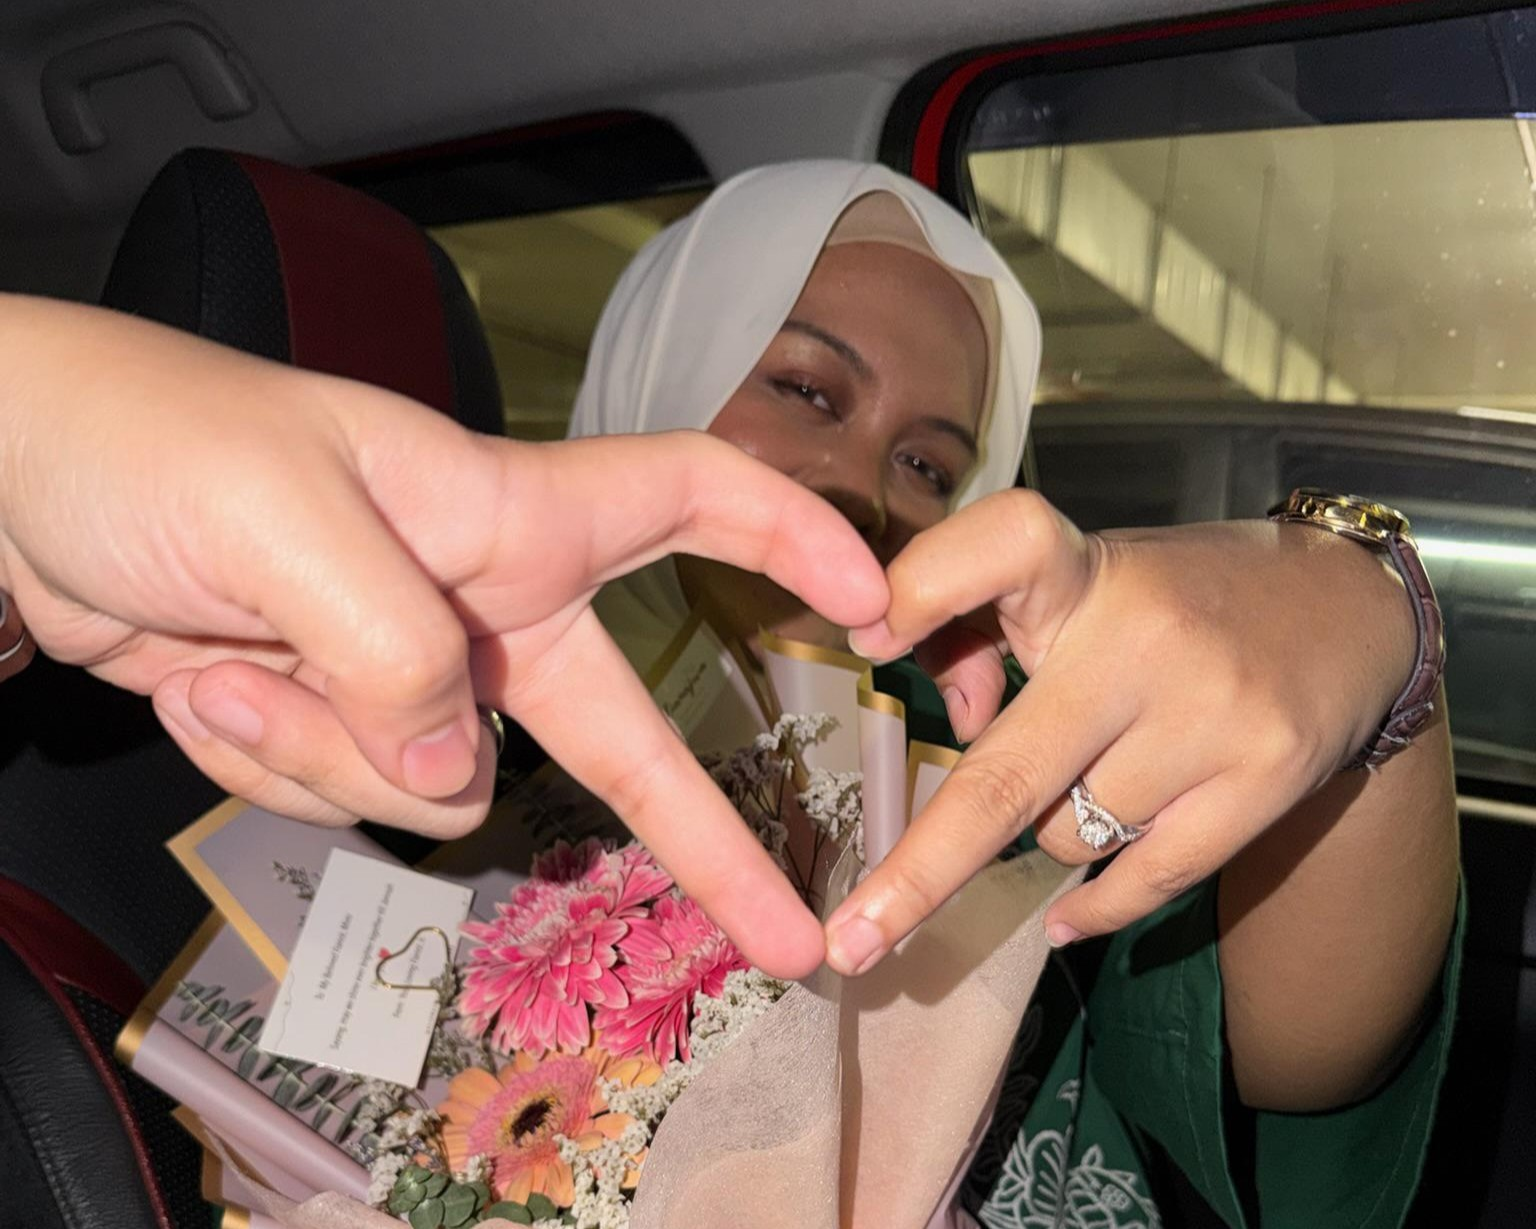
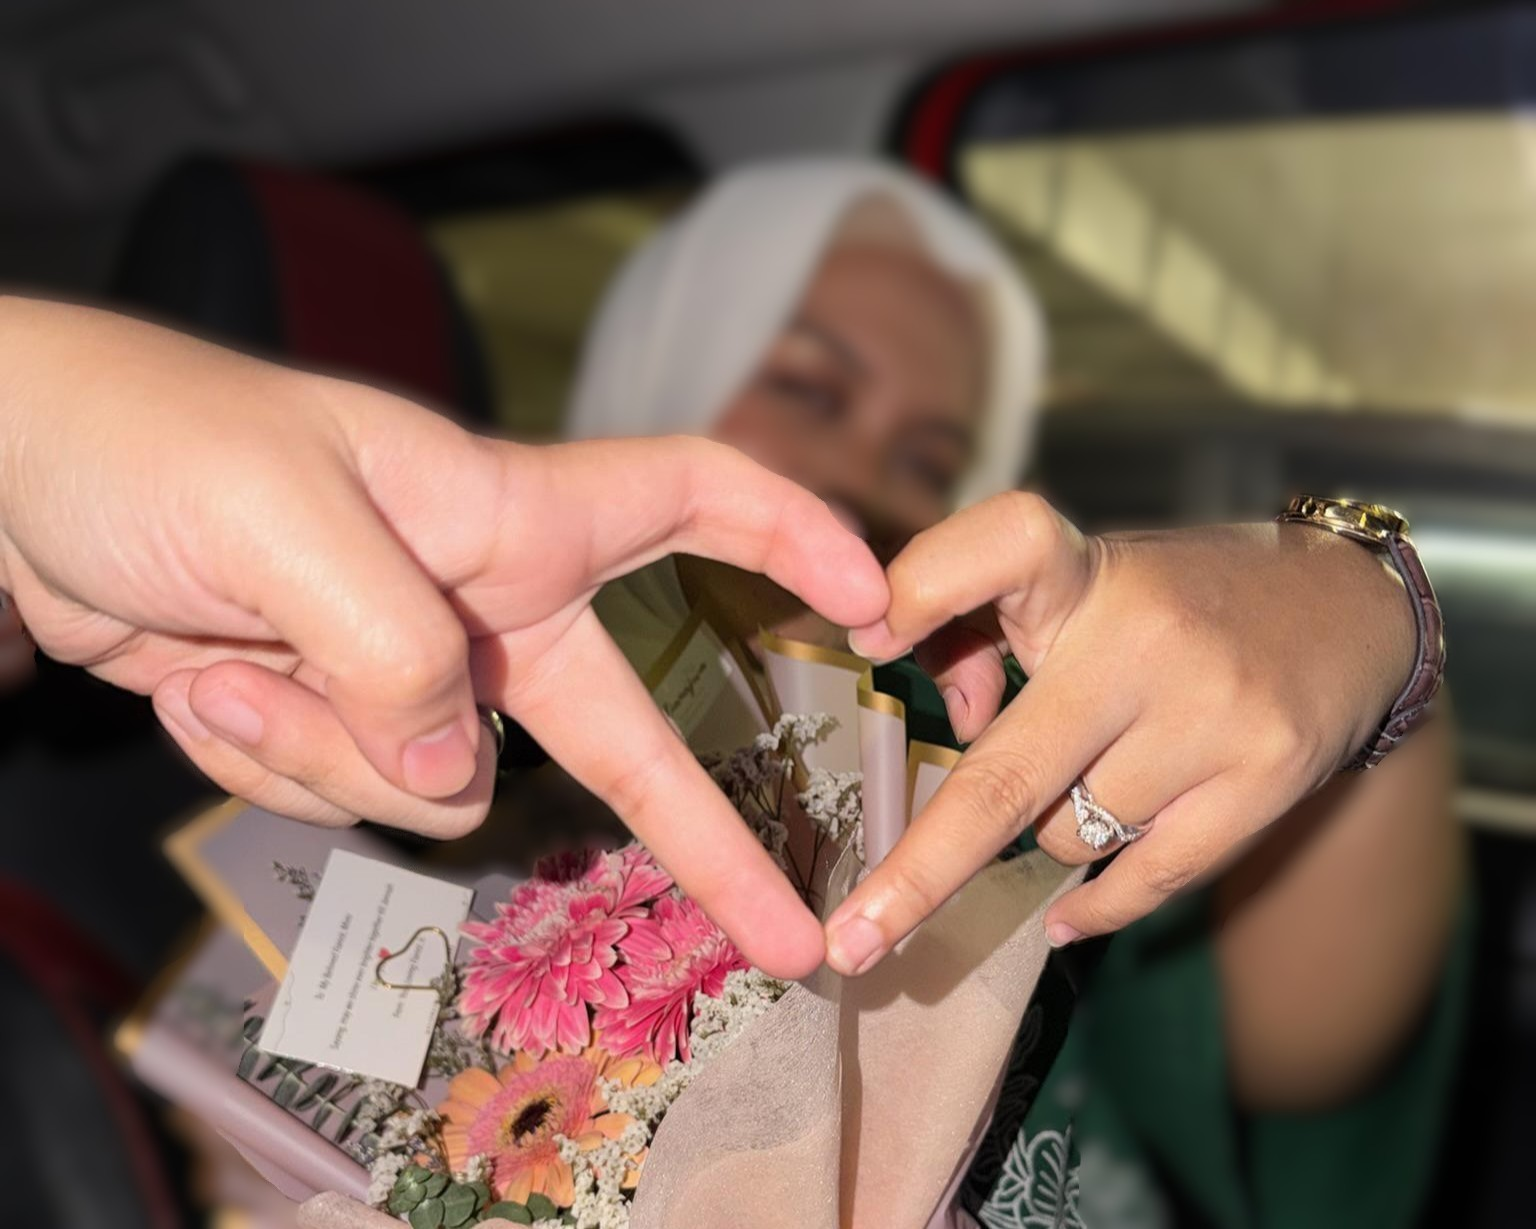
Update vintage photo print and gallery arrangement

diff --git a/index.html b/index.html
@@ -622,47 +622,6 @@
             <img src="assets/gallery_1.jpeg" alt="Wedding Moments 1" class="w-full h-full object-cover">
           </div>
 
-          <!-- <div class="carousel-item snap-center shrink-0 w-[60vw] sm:w-[50vw] lg:w-[30vw] aspect-[4/3] rounded-2xl overflow-hidden shadow-md border border-stone-200 transition-all duration-500 ease-out cursor-pointer">
-            <img src="assets/gallery_2.jpeg" alt="Wedding Moments 2" class="w-full h-full object-cover">
-          </div> -->
-
-          <!-- <div class="carousel-item snap-center shrink-0 w-[60vw] sm:w-[50vw] lg:w-[30vw] aspect-[3/4] rounded-2xl overflow-hidden shadow-md border border-stone-200 transition-all duration-500 ease-out cursor-pointer">
-            <img src="assets/gallery_3.jpeg" alt="Wedding Moments 3" class="w-full h-full object-cover">
-          </div>
-
-          <div class="carousel-item snap-center shrink-0 w-[60vw] sm:w-[50vw] lg:w-[30vw] aspect-[3/4] rounded-2xl overflow-hidden shadow-md border border-stone-200 transition-all duration-500 ease-out cursor-pointer">
-            <img src="assets/gallery_4.jpeg" alt="Wedding Moments 4" class="w-full h-full object-cover">
-          </div> -->
-
-          <div class="carousel-item snap-center shrink-0 w-[60vw] sm:w-[50vw] lg:w-[30vw] aspect-[4/3] rounded-2xl overflow-hidden shadow-md border border-stone-200 transition-all duration-500 ease-out cursor-pointer">
-            <img src="assets/gallery_5.jpeg" alt="Wedding Moments 5" class="w-full h-full object-cover">
-          </div>
-
-          <div class="carousel-item snap-center shrink-0 w-[60vw] sm:w-[50vw] lg:w-[30vw] aspect-[4/3] rounded-2xl overflow-hidden shadow-md border border-stone-200 transition-all duration-500 ease-out cursor-pointer">
-            <img src="assets/gallery_6.jpeg" alt="Wedding Moments 6" class="w-full h-full object-cover">
-          </div>
-
-          <div class="carousel-item snap-center shrink-0 w-[60vw] sm:w-[50vw] lg:w-[30vw] aspect-[3/4] rounded-2xl overflow-hidden shadow-md border border-stone-200 transition-all duration-500 ease-out cursor-pointer">
-            <img src="assets/gallery_7.jpeg" alt="Wedding Moments 7" class="w-full h-full object-cover">
-          </div>
-
-          <div class="carousel-item snap-center shrink-0 w-[60vw] sm:w-[50vw] lg:w-[30vw] aspect-[3/4] rounded-2xl overflow-hidden shadow-md border border-stone-200 transition-all duration-500 ease-out cursor-pointer">
-            <img src="assets/gallery_8.jpeg" alt="Wedding Moments 8" class="w-full h-full object-cover">
-          </div>
-
-          <!-- <div class="carousel-item snap-center shrink-0 w-[60vw] sm:w-[50vw] lg:w-[30vw] aspect-[3/4] rounded-2xl overflow-hidden shadow-md border border-stone-200 transition-all duration-500 ease-out cursor-pointer">
-            <img src="assets/gallery_9.jpeg" alt="Wedding Moments 9" class="w-full h-full object-cover">
-          </div> -->
-
-          <div class="carousel-item snap-center shrink-0 w-[60vw] sm:w-[50vw] lg:w-[30vw] aspect-[3/4] rounded-2xl overflow-hidden shadow-md border border-stone-200 transition-all duration-500 ease-out cursor-pointer">
-            <img src="assets/gallery_10.jpeg" alt="Wedding Moments 10" class="w-full h-full object-cover">
-          </div>
-
-          <!-- <div class="carousel-item snap-center shrink-0 w-[60vw] sm:w-[50vw] lg:w-[30vw] aspect-[3/4] rounded-2xl overflow-hidden shadow-md border border-stone-200 transition-all duration-500 ease-out cursor-pointer">
-            <video src="assets/vid_1.mp4" autoplay loop muted playsinline alt="Wedding Moments 3" class="w-full h-full object-cover">
-            </video>
-          </div> -->
-
           <div class="carousel-item snap-center shrink-0 w-[60vw] sm:w-[50vw] lg:w-[30vw] aspect-[4/3] rounded-2xl overflow-hidden shadow-md border border-stone-200 transition-all duration-500 ease-out cursor-pointer">
             <img src="assets/gallery_11.jpeg" alt="Wedding Moments 11" class="w-full h-full object-cover">
           </div>
@@ -679,6 +638,10 @@
             <img src="assets/gallery_14.jpeg" alt="Wedding Moments 14" class="w-full h-full object-cover">
           </div>
 
+          <div class="carousel-item snap-center shrink-0 w-[60vw] sm:w-[50vw] lg:w-[30vw] aspect-[3/4] rounded-2xl overflow-hidden shadow-md border border-stone-200 transition-all duration-500 ease-out cursor-pointer">
+            <img src="assets/gallery_19.jpeg" alt="Wedding Moments 19" class="w-full h-full object-cover">
+          </div>
+
           <div class="carousel-item snap-center shrink-0 w-[60vw] sm:w-[50vw] lg:w-[30vw] aspect-[4/3] rounded-2xl overflow-hidden shadow-md border border-stone-200 transition-all duration-500 ease-out cursor-pointer">
             <img src="assets/gallery_15.jpeg" alt="Wedding Moments 15" class="w-full h-full object-cover">
           </div>
@@ -688,16 +651,53 @@
           </div>
 
           <div class="carousel-item snap-center shrink-0 w-[60vw] sm:w-[50vw] lg:w-[30vw] aspect-[3/4] rounded-2xl overflow-hidden shadow-md border border-stone-200 transition-all duration-500 ease-out cursor-pointer">
-            <img src="assets/gallery_17.jpeg" alt="Wedding Moments 17" class="w-full h-full object-cover">
+            <img src="assets/gallery_7.jpeg" alt="Wedding Moments 7" class="w-full h-full object-cover">
+          </div>
+
+          <div class="carousel-item snap-center shrink-0 w-[60vw] sm:w-[50vw] lg:w-[30vw] aspect-[3/4] rounded-2xl overflow-hidden shadow-md border border-stone-200 transition-all duration-500 ease-out cursor-pointer">
+            <img src="assets/gallery_8.jpeg" alt="Wedding Moments 8" class="w-full h-full object-cover">
+          </div>
+
+          <div class="carousel-item snap-center shrink-0 w-[60vw] sm:w-[50vw] lg:w-[30vw] aspect-[3/4] rounded-2xl overflow-hidden shadow-md border border-stone-200 transition-all duration-500 ease-out cursor-pointer">
+            <img src="assets/gallery_10.jpeg" alt="Wedding Moments 10" class="w-full h-full object-cover">
+          </div>
+
+          <div class="carousel-item snap-center shrink-0 w-[60vw] sm:w-[50vw] lg:w-[30vw] aspect-[4/3] rounded-2xl overflow-hidden shadow-md border border-stone-200 transition-all duration-500 ease-out cursor-pointer">
+            <img src="assets/gallery_5.jpeg" alt="Wedding Moments 5" class="w-full h-full object-cover">
+          </div>
+
+          <div class="carousel-item snap-center shrink-0 w-[60vw] sm:w-[50vw] lg:w-[30vw] aspect-[4/3] rounded-2xl overflow-hidden shadow-md border border-stone-200 transition-all duration-500 ease-out cursor-pointer">
+            <img src="assets/gallery_6.jpeg" alt="Wedding Moments 6" class="w-full h-full object-cover">
           </div>
 
           <div class="carousel-item snap-center shrink-0 w-[60vw] sm:w-[50vw] lg:w-[30vw] aspect-[4/3] rounded-2xl overflow-hidden shadow-md border border-stone-200 transition-all duration-500 ease-out cursor-pointer">
             <img src="assets/gallery_18.jpeg" alt="Wedding Moments 18" class="w-full h-full object-cover">
           </div>
 
-          <div class="carousel-item snap-center shrink-0 w-[60vw] sm:w-[50vw] lg:w-[30vw] aspect-[3/4] rounded-2xl overflow-hidden shadow-md border border-stone-200 transition-all duration-500 ease-out cursor-pointer">
-            <img src="assets/gallery_19.jpeg" alt="Wedding Moments 19" class="w-full h-full object-cover">
+          <!-- <div class="carousel-item snap-center shrink-0 w-[60vw] sm:w-[50vw] lg:w-[30vw] aspect-[4/3] rounded-2xl overflow-hidden shadow-md border border-stone-200 transition-all duration-500 ease-out cursor-pointer">
+            <img src="assets/gallery_2.jpeg" alt="Wedding Moments 2" class="w-full h-full object-cover">
+          </div> -->
+
+          <!-- <div class="carousel-item snap-center shrink-0 w-[60vw] sm:w-[50vw] lg:w-[30vw] aspect-[3/4] rounded-2xl overflow-hidden shadow-md border border-stone-200 transition-all duration-500 ease-out cursor-pointer">
+            <img src="assets/gallery_3.jpeg" alt="Wedding Moments 3" class="w-full h-full object-cover">
           </div>
+
+          <div class="carousel-item snap-center shrink-0 w-[60vw] sm:w-[50vw] lg:w-[30vw] aspect-[3/4] rounded-2xl overflow-hidden shadow-md border border-stone-200 transition-all duration-500 ease-out cursor-pointer">
+            <img src="assets/gallery_4.jpeg" alt="Wedding Moments 4" class="w-full h-full object-cover">
+          </div> -->
+
+          <!-- <div class="carousel-item snap-center shrink-0 w-[60vw] sm:w-[50vw] lg:w-[30vw] aspect-[3/4] rounded-2xl overflow-hidden shadow-md border border-stone-200 transition-all duration-500 ease-out cursor-pointer">
+            <img src="assets/gallery_9.jpeg" alt="Wedding Moments 9" class="w-full h-full object-cover">
+          </div> -->
+
+          <!-- <div class="carousel-item snap-center shrink-0 w-[60vw] sm:w-[50vw] lg:w-[30vw] aspect-[3/4] rounded-2xl overflow-hidden shadow-md border border-stone-200 transition-all duration-500 ease-out cursor-pointer">
+            <video src="assets/vid_1.mp4" autoplay loop muted playsinline alt="Wedding Moments 3" class="w-full h-full object-cover">
+            </video>
+          </div> -->
+
+          <!-- <div class="carousel-item snap-center shrink-0 w-[60vw] sm:w-[50vw] lg:w-[30vw] aspect-[3/4] rounded-2xl overflow-hidden shadow-md border border-stone-200 transition-all duration-500 ease-out cursor-pointer">
+            <img src="assets/gallery_17.jpeg" alt="Wedding Moments 17" class="w-full h-full object-cover">
+          </div> -->
         </div>
       </div>
     </section>
@@ -848,7 +848,7 @@
         fatherBride: "( Bapa Pengantin Perempuan )",
         motherBride: "( Ibu Pengantin Perempuan )",
         invitationHonorGroom: "menjemput serta mempersilakan<br><span class=\"font-sans font-medium text-[11px] sm:text-xs md:text-sm tracking-wider\">YBhg. Dato' / Datin / Tuan / Puan / Encik / Cik</span><br>ke majlis perkahwinan putera kami<br>bersama pasangan hidupnya",
-        invitationHonorBride: "menjemput serta mempersilakan<br><span class=\"font-sans font-medium text-[11px] sm:text-xs md:text-sm tracking-wider\">YBhg. Dato' / Datin / Tuan / Puan / Encik / Cik</span><br>ke majlis perkahwinan puteri kami<br>bersama pasangan hidupnya",
+        invitationHonorBride: "menjemput serta mempersilakan<br><span class=\"font-sans font-medium text-[11px] sm:text-xs md:text-sm tracking-wider\">YBhg. Dato' / Datin / Tuan / Puan / Encik / Cik</span><br>ke majlis perkahwinan puteri kami<wbr>bersama pasangan hidupnya",
         eventDate: "Sabtu | 24 Oktober 2026",
         addToCalendar: "Tambah ke Kalendar",
         countdownTitle: "Menghitung Hari Bahagia",

diff --git a/print.html b/print.html
@@ -315,7 +315,7 @@
               <span>Playlist</span>
             </div>
             <div class="w-full h-14 bg-stone-300 overflow-hidden relative grayscale rounded">
-              <img src="assets\b_roll_1.jpeg" alt="Playlist" class="w-full h-full object-cover" />
+              <img src="assets\b_roll_6.jpeg" alt="Playlist" class="w-full h-full object-cover" />
             </div>
             <div class="flex justify-center items-center gap-2 text-[8px] text-cerulean mt-1.5">
               <i class="fa-solid fa-backward-step"></i>
